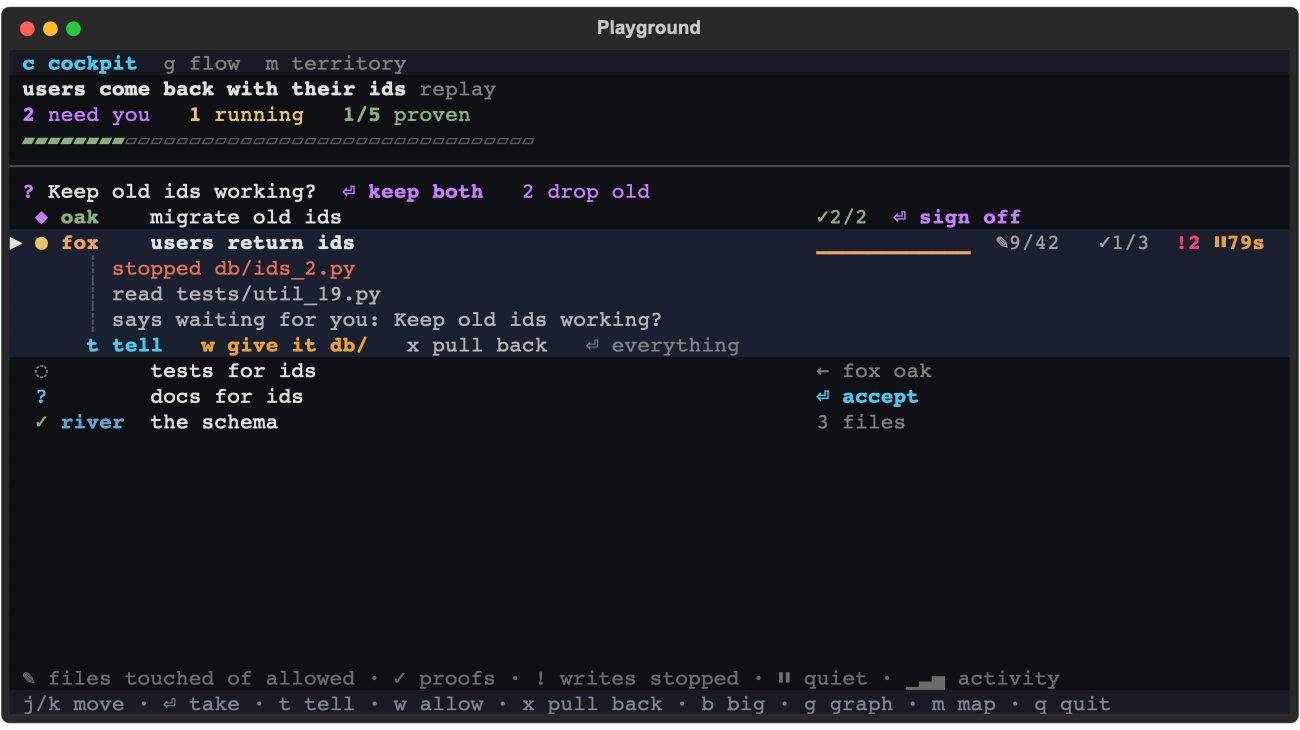
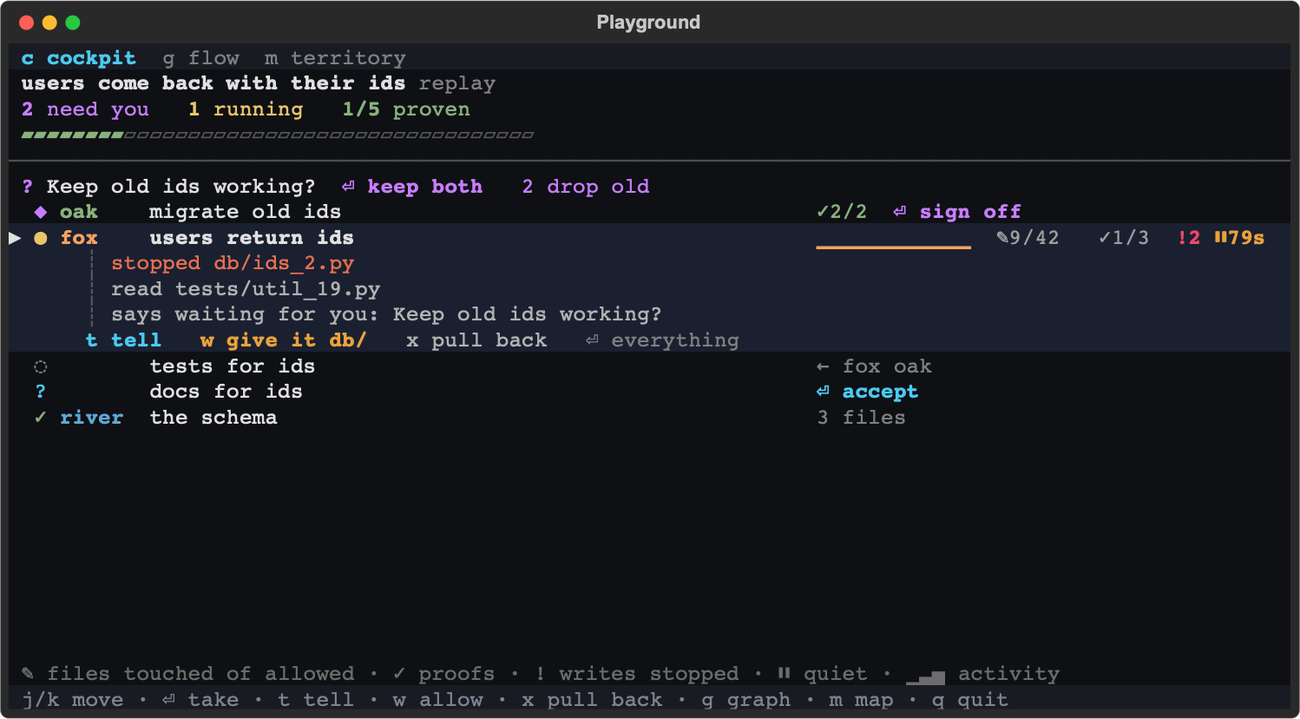
The playground has no big-numbers mode, and its screen scrolls
The b key showed three numbers in digits five rows tall, on an 80x24 screen, when the header already shows
them. The key, the digits and the parameter behind them go. The canvas sits in a scrolling container instead:
the wheel scrolls, and j and k keep the selected row in view, so a plan longer than the screen is reachable
(36 rows at 80x24 in check.py; without the follow, the last row stays out of view and the check fails).
The cockpit screenshot is shot again from the changed app; the big-numbers one and the real-plan one, which
showed the old footer and no doc names, are gone.

diff --git a/dev/ui/playground/app.py b/dev/ui/playground/app.py
@@ -8,8 +8,9 @@
 
 Keys: c cockpit, g graph (flow), m map (territory), Tab next screen, j/k or arrows move, Enter takes the
 default / signs off, t tells the selected agent one line, w or a allows the last stopped write, x pulls
-an agent back, b big numbers, v lens, p paint a folder, s speed, r restart, q quit. Everything is also
-clickable. Nothing here talks to an agent or writes to your repository.
+an agent back, v lens, p paint a folder, s speed, r restart, q quit. Everything is also clickable, and a
+screen longer than the terminal scrolls (the wheel; j/k keep the selected row in view). Nothing here
+talks to an agent or writes to your repository.
 """
 
 from __future__ import annotations
@@ -25,14 +26,15 @@ import views as V  # noqa: E402
 from model import Model, demo_model, repo_model  # noqa: E402
 from rich.text import Text  # noqa: E402
 from textual.app import App, ComposeResult  # noqa: E402
-from textual.containers import Vertical  # noqa: E402
+from textual.containers import ScrollableContainer  # noqa: E402
 from textual.events import Click  # noqa: E402
+from textual.geometry import Region  # noqa: E402
 from textual.widget import Widget  # noqa: E402
 from textual.widgets import Input, Static  # noqa: E402
 
 SCREENS = ("cockpit", "flow", "territory")
 KEYS = {
-    "cockpit": "j/k move · ⏎ take · t tell · w allow · x pull back · b big · g graph · m map · q quit",
+    "cockpit": "j/k move · ⏎ take · t tell · w allow · x pull back · g graph · m map · q quit",
     "flow": "arrows move · ⏎ take · t tell · w allow · c cockpit · m map · q quit",
     "territory": "j/k folder · ←/→ task · p paint · v lens · a allow · c cockpit · g graph · q quit",
 }
@@ -41,7 +43,7 @@ KEYS = {
 class Canvas(Widget):
     """Paints lines of segments and turns a click on a segment into that segment's action."""
 
-    DEFAULT_CSS = "Canvas { height: 1fr; width: 1fr; }"
+    DEFAULT_CSS = "Canvas { height: auto; width: auto; }"
 
     def __init__(self) -> None:
         super().__init__()
@@ -49,7 +51,7 @@ class Canvas(Widget):
 
     def set_lines(self, lines: list[V.Line]) -> None:
         self.lines = lines
-        self.refresh()
+        self.refresh(layout=True)
 
     def render(self) -> Text:
         out = Text(no_wrap=True, overflow="crop")
@@ -82,7 +84,7 @@ class Playground(App):
         super().__init__()
         self.model = model
         self.view = screen
-        self.big = False
+        self.shown = ""  # the row the screen was last scrolled to
         self.tell_open = False
         self.cursor = 0  # the territory's folder cursor
         self.paint_mode = False
@@ -92,7 +94,7 @@ class Playground(App):
 
     def compose(self) -> ComposeResult:
         yield Static(id="bar")
-        with Vertical():
+        with ScrollableContainer():
             yield Canvas()
         yield Static(id="feed")
         yield Input(placeholder="tell the agent one line, Enter sends, Esc cancels", id="tell")
@@ -123,7 +125,7 @@ class Playground(App):
         )
         lines: list[V.Line]
         if self.view == "cockpit":
-            lines = V.build_cockpit(m, w, big_numbers=self.big, tell="" if self.tell_open else None)
+            lines = V.build_cockpit(m, w, tell="" if self.tell_open else None)
         elif self.view == "territory":
             lines, self.groups = V.build_territory(m, w, self.cursor)
         else:
@@ -157,6 +159,9 @@ class Playground(App):
             else:
                 lines.append(V.Line([V.Seg(" amber lane = a retry loop (bounded) · ◀▶ two-way", "grey50")]))
         self.query_one(Canvas).set_lines(lines)
+        if m.selected != self.shown:  # follow the selection when it moves, not on every tick
+            self.shown = m.selected
+            self.call_after_refresh(self.follow, lines)
         feed = m.latest()
         legend = "✎ files touched of allowed · ✓ proofs · ! writes stopped · ⏸ quiet · ▁▃▅ activity"
         note = Text()
@@ -167,6 +172,13 @@ class Playground(App):
             + ("paint mode: click or Enter on folders · p to stop · " if self.paint_mode else "")
             + KEYS[self.view]
         )
+
+    def follow(self, lines: list[V.Line]) -> None:
+        """Scroll so the selected row, all its lines, is on screen."""
+        at = [k for k, line in enumerate(lines) if line.row and line.row == self.model.selected]
+        if at:
+            region = Region(0, at[0], 1, at[-1] - at[0] + 1)
+            self.query_one(ScrollableContainer).scroll_to_region(region, animate=False)
 
     # -- moves -------------------------------------------------------------------------------------
 
@@ -236,8 +248,6 @@ class Playground(App):
             self.view = {"c": "cockpit", "g": "flow", "m": "territory"}[key]
         elif key == "tab":
             self.view = SCREENS[(SCREENS.index(self.view) + 1) % 3]
-        elif key == "b":
-            self.big = not self.big
         elif key == "v":
             m.lens = T_next(m.lens)
         elif key == "s":

diff --git a/dev/ui/playground/views.py b/dev/ui/playground/views.py
@@ -73,58 +73,27 @@ def ago(seconds: float) -> str:
 
 # -- cockpit ---------------------------------------------------------------------------------------
 
-BIG = {
-    "0": ("┏━┓", "┃ ┃", "┗━┛"), "1": ("╺┓ ", " ┃ ", "╺┻╸"), "2": ("╺━┓", "┏━┛", "┗━╸"),
-    "3": ("╺━┓", " ━┫", "╺━┛"), "4": ("╻ ╻", "┗━┫", "  ╹"), "5": ("┏━╸", "┗━┓", "╺━┛"),
-    "6": ("┏━╸", "┣━┓", "┗━┛"), "7": ("╺━┓", "  ┃", "  ╹"),
-    "8": ("┏━┓", "┣━┫", "┗━┛"), "9": ("┏━┓", "┗━┫", "╺━┛"),
-}  # fmt: skip
-
-
-def big(number: int) -> list[str]:
-    parts = [BIG[c] for c in str(number)]
-    return [" ".join(p[i] for p in parts) for i in range(3)]
-
-
-def build_cockpit(m: Model, width: int, *, big_numbers: bool = False, tell: str | None = None) -> list[Line]:
+def build_cockpit(m: Model, width: int, *, tell: str | None = None) -> list[Line]:
     out: list[Line] = []
     need, running, done, total = m.scoreboard()
     tag = "replay" if m.source == "demo" else ("replay" if m.simulate else "your plan")
     head = [Seg(" " + fit(m.goal, width - len(tag) - 4), "bold"), Seg(" " * 1), Seg(tag, "grey50")]
     out.append(Line(pad(head, width)))
-    if big_numbers:
-        a, b, c = big(need), big(running), big(done)
-        for i in range(3):
-            row = [
-                Seg("  " + a[i].ljust(16), "bold #c77dff"),
-                Seg(b[i].ljust(16), "bold #e9c46a"),
-                Seg(c[i], "bold #8ab17d"),
-            ]
-            if i == 1:
-                row += [Seg(f"  of {total}", "grey50")]
-            out.append(Line(pad(row, width)))
-        labels = [
-            Seg("  " + "need you".ljust(16), "#c77dff"),
-            Seg("running".ljust(16), "#e9c46a"),
-            Seg("proven", "#8ab17d"),
-        ]
-        out.append(Line(pad(labels, width)))
-    else:
-        out.append(
-            Line(
-                pad(
-                    [
-                        Seg(f" {need}", "bold #c77dff"),
-                        Seg(" need you   ", "#c77dff"),
-                        Seg(str(running), "bold #e9c46a"),
-                        Seg(" running   ", "#e9c46a"),
-                        Seg(f"{done}/{total}", "bold #8ab17d"),
-                        Seg(" proven", "#8ab17d"),
-                    ],
-                    width,
-                )
+    out.append(
+        Line(
+            pad(
+                [
+                    Seg(f" {need}", "bold #c77dff"),
+                    Seg(" need you   ", "#c77dff"),
+                    Seg(str(running), "bold #e9c46a"),
+                    Seg(" running   ", "#e9c46a"),
+                    Seg(f"{done}/{total}", "bold #8ab17d"),
+                    Seg(" proven", "#8ab17d"),
+                ],
+                width,
             )
         )
+    )
     cells = max(10, min(width - 12, 40))
     fill = round(cells * done / max(total, 1))
     out.append(Line(pad([Seg(" " + "▰" * fill, "#8ab17d"), Seg("▱" * (cells - fill), "grey35")], width)))

diff --git a/dev/ui/playground/check.py b/dev/ui/playground/check.py
@@ -12,6 +12,7 @@ import hashlib
 import subprocess
 import sys
 import tempfile
+from dataclasses import replace
 from pathlib import Path
 
 sys.path.insert(0, str(Path(__file__).resolve().parent))
@@ -22,6 +23,7 @@ import territory as T  # noqa: E402
 import views as V  # noqa: E402
 from fixtures import PASTED_EDGES, PASTED_NODES  # noqa: E402
 from model import demo_model, repo_model  # noqa: E402
+from textual.containers import ScrollableContainer  # noqa: E402
 
 REPORT: list[str] = []
 
@@ -214,7 +216,7 @@ async def drive() -> None:
         a3 = A.Playground(m3)
         async with a3.run_test(size=size) as p3:
             warm(m3, 20)
-            for key in ("g", "m", "v", "v", "c", "b", "b"):
+            for key in ("g", "m", "v", "v", "c"):
                 await p3.press(key)
             await p3.pause(0.1)
     say("screens: cockpit, flow and territory run at 80x24, 120x36 and 60x20")
@@ -222,6 +224,28 @@ async def drive() -> None:
 
 def check_screens() -> None:
     asyncio.run(drive())
+
+
+async def scrolls() -> None:
+    """A plan longer than the screen scrolls, and j keeps the selected row on screen."""
+    m = demo_model(simulate=False)
+    for i in range(30):
+        m.tasks[f"t{i}"] = replace(m.tasks["docs"], id=f"t{i}", title=f"task {i}", state="waiting")
+    app = A.Playground(m)
+    async with app.run_test(size=(80, 24)) as pilot:
+        await pilot.pause(0.1)
+        box = app.query_one(ScrollableContainer)
+        ok(box.max_scroll_y > 0, "a plan longer than the screen scrolls")
+        for _ in range(len(m.order()) - 1):
+            await pilot.press("j")
+        await pilot.pause(0.1)
+        at = next(k for k, line in enumerate(app.query_one(A.Canvas).lines) if line.row == m.selected)
+        ok(0 < box.scroll_y <= at < box.scroll_y + box.size.height, "j keeps the selected row in view")
+    say(f"scroll: {len(m.order())} rows at 80x24, the last one in view after j")
+
+
+def check_scroll() -> None:
+    asyncio.run(scrolls())
 
 
 # -- real data: a throwaway repository and its plan ------------------------------------------------
@@ -299,6 +323,7 @@ def check_real_plan() -> None:
 def main() -> None:
     check_layout()
     check_screens()
+    check_scroll()
     check_real_plan()
     print("\nplayground check: all hold")
 
